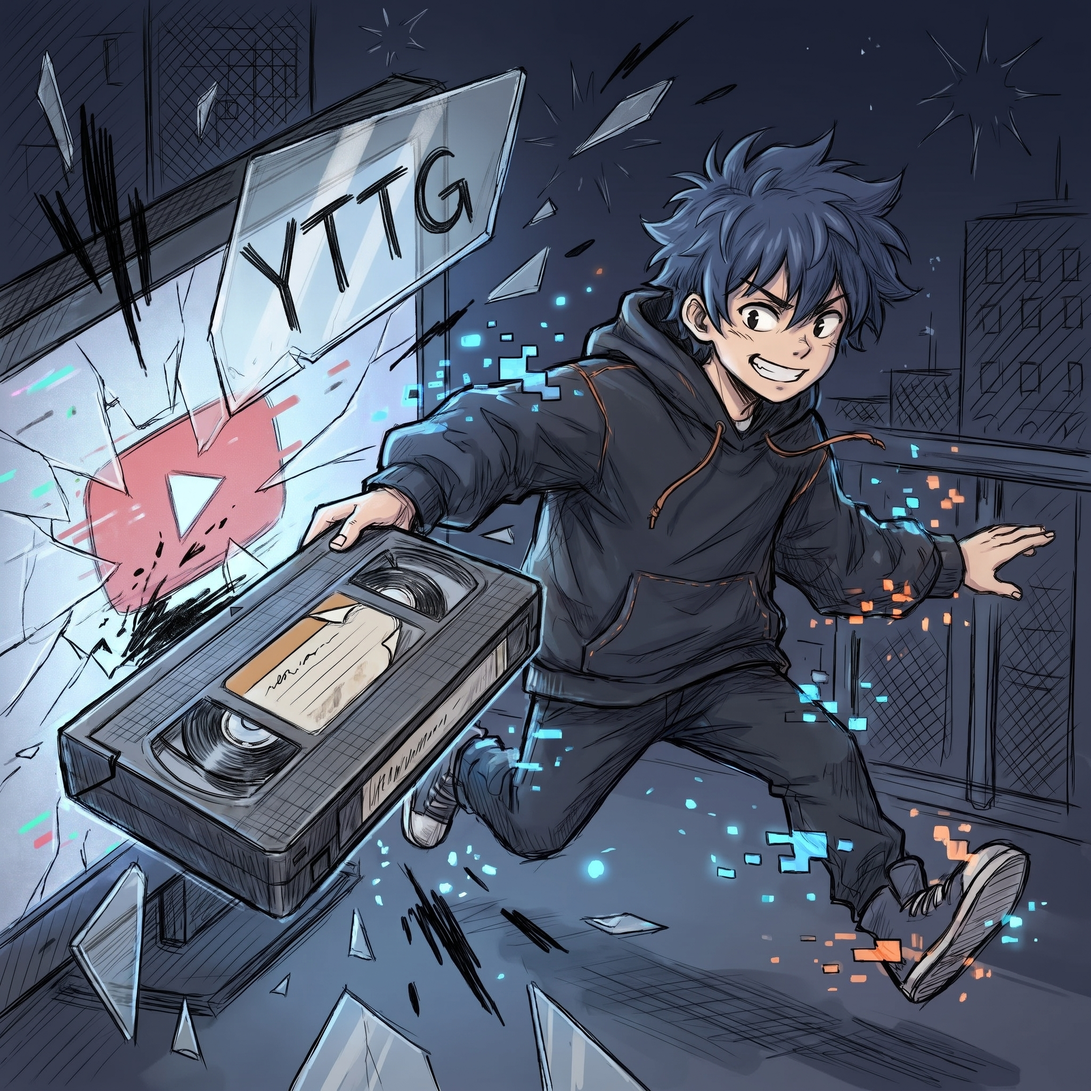
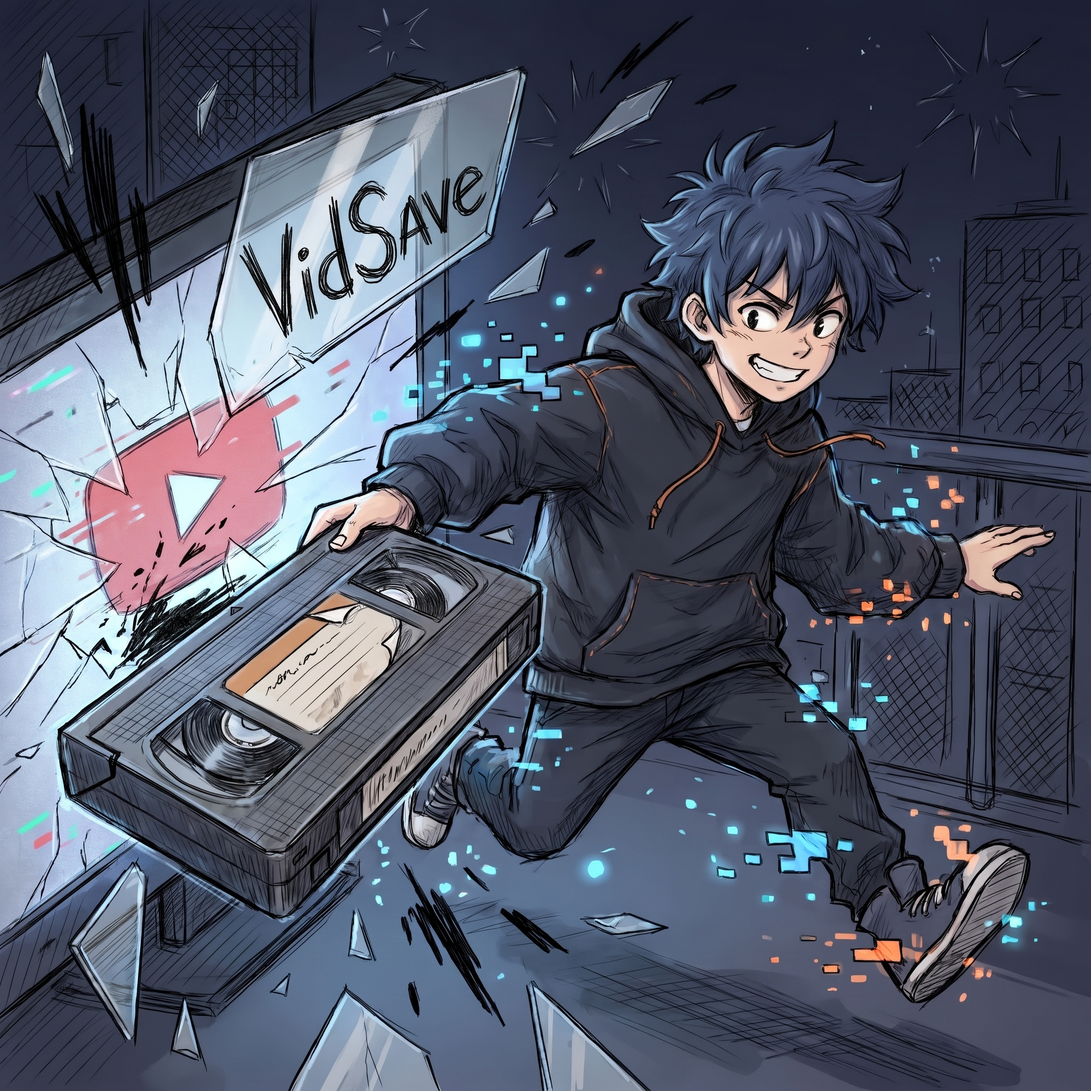
Смержил тестовую ветку с main, наполнил README.md

diff --git a/README.md b/README.md
@@ -1,4 +1,201 @@
-#Бот шаблон
-##Этот бот-шаблон создан для удобного масштабирования бизнес задач на разные типы бизнеса.
+<p align="center">
+  <img src="https://img.shields.io/badge/Python-3.12-blue?style=for-the-badge&logo=python&logoColor=white" alt="Python">
+  <img src="https://img.shields.io/badge/Docker-Ready-2496ED?style=for-the-badge&logo=docker&logoColor=white" alt="Docker">
+  <img src="https://img.shields.io/badge/Aiogram-3.x-red?style=for-the-badge&logo=telegram&logoColor=white" alt="Aiogram">
+  <img src="https://img.shields.io/badge/yt--dlp-Supported-green?style=for-the-badge" alt="yt-dlp">
+</p>
 
-##Бот подходит для малого бизнеса, и используется для привлечения большей аудитории
+<h1 align="center">VidSave</h1>
+
+<p align="center">
+  <b>Масштабируемый Telegram-бот для скачивания медиа в telegram. Разделен на микросервисы: легкий бекенд и тяжелые воркеры для загрузки файлов.</b>
+</p>
+
+Воркер можно развернуть на любом домашнем ПК, домашнем сервере или одноплатнике (например, **Orange Pi** / Raspberry Pi) главное условие - Резиденсткий айпи у воркера, если айпи у воркера из датацентра - скачивания ваших видео с вашего ютуб канала ниже 20%, Бэкенд не требовальный к айпи и размещен на VPS. 
+
+## Особенности проекта
+
+* **Выгрузка файлов до 2 ГБ**: Использование локального сервера Telegram Bot API позволяет загружать и отправлять файлы размером до **2 ГБ**.
+* **Бережем SSD и SD-карты**: Видео скачиваются и обрабатываются исключительно в оперативной памяти (через `tmpfs` RAM-диск на 2 ГБ). Это критически важно для одноплатников, чтобы спасти накопитель от быстрого износа при постоянной перезаписи тяжелых файлов. но это накладывает ограничение по выбору железа - рекомендуемый минимум 4 ГБ оперативной памяти. или перенос загрузки видео в обычную деррикторию на SD/SSD, что снижает требование к оперативной памяти до **2 ГБ**.
+* **Гарантированная совместимость**: Принудительная конвертация видео в кодек H.264 (`avc1`) и извлечение реальных размеров кадра для корректного отображения видео с правильным соотношением сторон.
+* **Событийная архитектура**: Бекенд и воркеры общаются по WebSocket. Вы можете запустить один бекенд и подключить к нему сколько угодно серверов-воркеров для балансировки нагрузки.
+
+---
+
+## Установка и запуск
+
+Для работы потребуется сервер с установленными `git` и `docker` (с плагином `docker compose`).
+вам потребуется на VPS получить ssl через traefik или certbot. для выбора с traefik потребуется домен. с certbot можно поробовать обойтись без домена. 
+
+### 1. Клонирование репозитория
+
+Склонируйте проект на ваш сервер и перейдите в его директорию:
+```bash
+git clone https://github.com/u5lb/VidSave.git
+cd VidSave
+```
+
+---
+
+### 2. Настройка Backend (Основной бот)
+Бекенд отвечает за общение с пользователем, базу данных и распределение задач.
+
+Перейдите в папку бекенда и создайте конфигурационный файл:
+```bash
+cd backend
+nano .env
+```
+
+Заполните минимальные данные в `.env`:
+```ini
+BOT_TOKEN=ваш_бот_токен_без_ковычек
+DB_URL=postgresql+asyncpg://tgyt_user:SecretPassword2026@postgres-db:5432/tgyt_database #если изменили в docker-compose необходимо отредактировать
+WEB_APP_URL="https://example.com" #В этой версии проекта не реализован Web App.
+WORKER_TOKEN="MySuperSecret123"
+MAIN_PHOTO_ID= # Оставьте пустым для первого запуска, после отправьте любое подходящее фото в бота и скопируйте получившийся хеш, вставьте в это поле.
+```
+
+Запустите бекенд:
+```bash
+docker compose up -d
+```
+
+---
+
+### 3. Настройка Worker (Сервер скачивания)
+Воркер выполняет всю ресурсоемкую работу: скачивание через `yt-dlp`, нарезку через `ffmpeg` и выгрузку в Telegram.
+
+Перейдите в папку воркера и создайте конфиг:
+```bash
+cd ../worker
+nano .env
+```
+
+Заполните `.env` воркера:
+```ini
+BOT_TOKEN=ваш_бот_токен_без_ковычек_как_и_в_первом_.env
+SERVER_URL=wss://ДОМЕН_ВАШЕГО_БЕКЕНДА:8000/ws/worker/worker_1?token=ваша_секретная_строка_для_подключения_воркеров
+
+# Данные для запуска локального сервера Telegram API
+# Получите их на сайте [https://my.telegram.org](https://my.telegram.org)
+TELEGRAM_API_ID=1234567
+TELEGRAM_API_HASH=abcdef1234567890abcdef
+```
+
+#### Выбор сетевой архитектуры (Важно!)
+В папке `worker/` вам нужно выбрать правильную конфигурацию сети в `docker-compose.yml` в зависимости от вашего роутера и провайдера.
+
+**Вариант А: Роутер с обходом блокировок**
+Если на вашем роутере уже настроен обход блокировок на уровне всей сети (или вы запускаете воркер на зарубежном сервере с РЕЗИДЕНСКИМ айпи. запустить воркера на VPS не имеет смысла из за жосткой политики youtube против скачивания своих видео), используйте стандартный конфиг. В нём контейнеры просто делят общий RAM-диск.
+
+<details>
+<summary>Показать docker-compose.yml для Варианта А</summary>
+
+```yaml
+---
+services:
+  vidsave-worker:
+    build: .
+    container_name: pi_worker
+    restart: always
+    env_file:
+      - .env
+    volumes:
+      - ramdisk_downloads:/app/downloads
+
+  telegram-api:
+    image: aiogram/telegram-bot-api:latest
+    container_name: telegram-api
+    restart: always
+    env_file:
+      - .env
+    environment:
+      TELEGRAM_LOCAL: "true"
+    volumes:
+      - ramdisk_downloads:/app/downloads
+
+volumes:
+  ramdisk_downloads:
+    driver_opts:
+      type: tmpfs
+      device: tmpfs
+      o: size=2500M,uid=1000,mode=1777
+```
+</details>
+
+**Вариант Б: Локальный VPN / Zapret / AmneziaWG на хосте**
+Если ваш роутер обычный, и вы поднимаете туннель (например, AmneziaWG) прямо на хост-машине (вашем ПК или Orange Pi), стандартная сеть Docker могут  конфликтовать с MTU туннеля 
+Для этого сценария используйте конфиг с выделенной подсетью и **MTU 1360**:
+
+<details>
+<summary>Показать docker-compose.yml для Варианта Б</summary>
+
+```yaml
+---
+services:
+  vidsave-worker:
+    build: .
+    container_name: pi_worker
+    restart: always
+    env_file:
+      - .env
+    volumes:
+      - ramdisk_downloads:/app/downloads
+    networks:
+      - vpn_net
+
+  telegram-api:
+    image: aiogram/telegram-bot-api:latest
+    container_name: telegram-api
+    restart: always
+    env_file:
+      - .env
+    environment:
+      TELEGRAM_LOCAL: "true"
+    volumes:
+      - ramdisk_downloads:/app/downloads
+    networks:
+      - vpn_net
+
+volumes:
+  ramdisk_downloads:
+    driver_opts:
+      type: tmpfs
+      device: tmpfs
+      o: size=2500M,uid=1000,mode=1777
+
+networks:
+  vpn_net:
+    driver: bridge
+    driver_opts:
+      com.docker.network.driver.mtu: 1360
+    ipam:
+      config:
+        - subnet: 10.20.0.0/16
+```
+</details>
+
+Отредактировав `docker-compose.yml` под ваши нужды, запустите воркер:
+```bash
+docker compose up -d --build
+```
+
+---
+
+## Управление и логирование
+
+Посмотреть логи процесса скачивания (yt-dlp):
+```bash
+cd VidSave/worker
+docker logs pi_worker -f
+```
+
+Посмотреть сетевые логи локального сервера Telegram API:
+```bash
+docker logs telegram-api -f
+```
+
+Перезапустить воркер после внесения изменений в код:
+```bash
+docker compose up -d --build
+```
